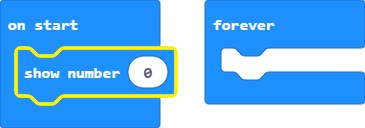
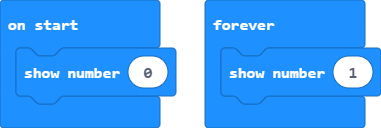
Update main.blocks, main.ts

diff --git a/main.ts b/main.ts
@@ -1,4 +1,4 @@
 basic.showNumber(0)
 basic.forever(function () {
-	
+    basic.showNumber(1)
 })
